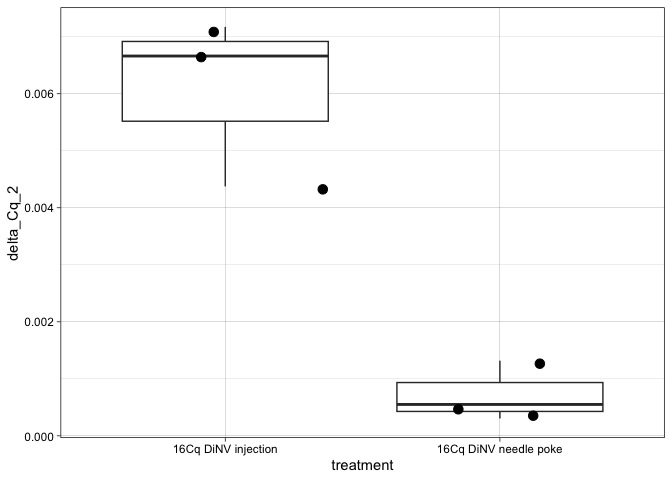
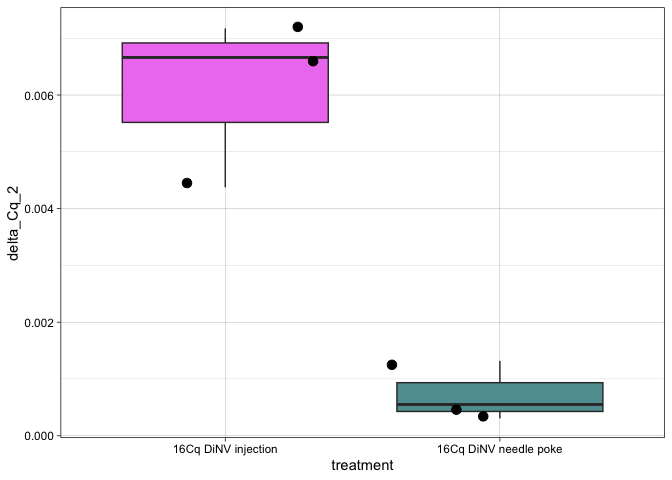
updating analysis

diff --git a/qPCR_analysis/20230928-poke-vs-inject-16Cq-dilutions/20230928-poke-inject-dilution-analysis.md b/qPCR_analysis/20230928-poke-vs-inject-16Cq-dilutions/20230928-poke-inject-dilution-analysis.md
@@ -480,7 +480,7 @@ Cq_values_40_1rep_1ng_Delta$delta_Cq_2 <- 2^(delta_Cqs_1ng)
 
 #Plot by treatment
 
-ggplot(Cq_values_40_1rep_1ng_Delta, aes(y= delta_Cq_2, x=treatment)) + geom_boxplot()  + theme_linedraw() + geom_point(position="jitter", size=3)
+ggplot(Cq_values_40_1rep_1ng_Delta, aes(y= delta_Cq_2, x=treatment, fill=treatment)) + geom_boxplot()  + theme_linedraw() + geom_point(position="jitter", size=3) + scale_fill_manual(values = c('violet', 'cadetblue')) + theme(legend.position = "none")
 ```
 
 ![](20230928-poke-inject-dilution-analysis_files/figure-commonmark/unnamed-chunk-15-1.png)
@@ -625,7 +625,7 @@ Cq_values_40_1rep_1_10_Delta$delta_Cq_2 <- 2^(delta_Cqs_1_10)
 
 #Plot by treatment
 
-ggplot(Cq_values_40_1rep_1_10_Delta, aes(y= delta_Cq_2, x=treatment)) + geom_boxplot()  + theme_linedraw() + geom_point(position="jitter", size=3)
+ggplot(Cq_values_40_1rep_1_10_Delta, aes(y= delta_Cq_2, x=treatment, fill=treatment)) + geom_boxplot()  + theme_linedraw() + geom_point(position="jitter", size=3) + scale_fill_manual(values = c('violet', 'cadetblue')) + theme(legend.position = "none")
 ```
 
 ![](20230928-poke-inject-dilution-analysis_files/figure-commonmark/unnamed-chunk-20-1.png)
